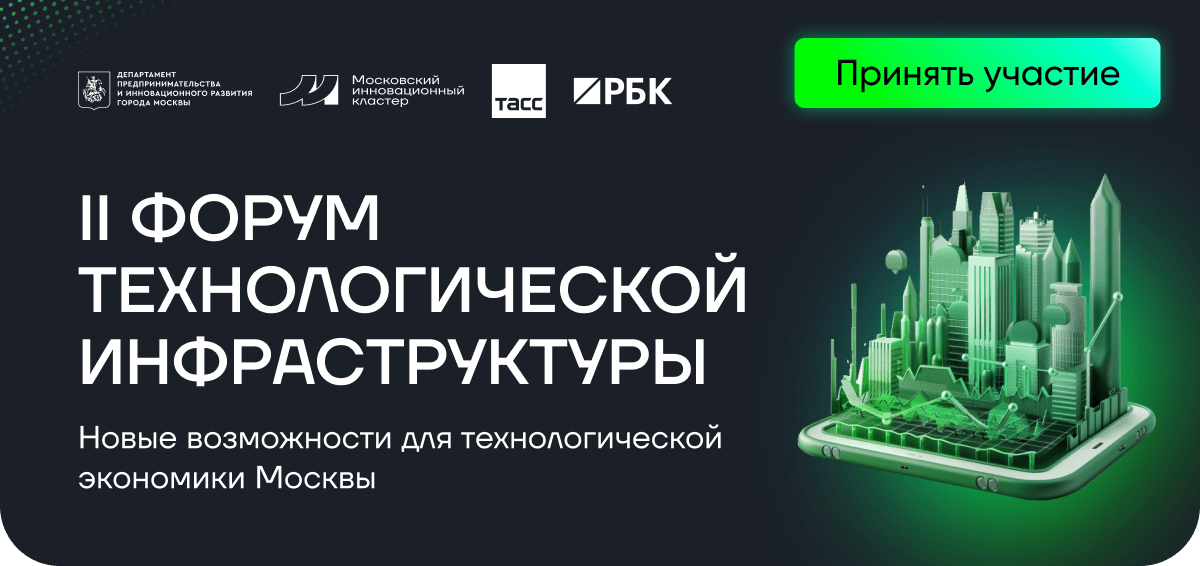
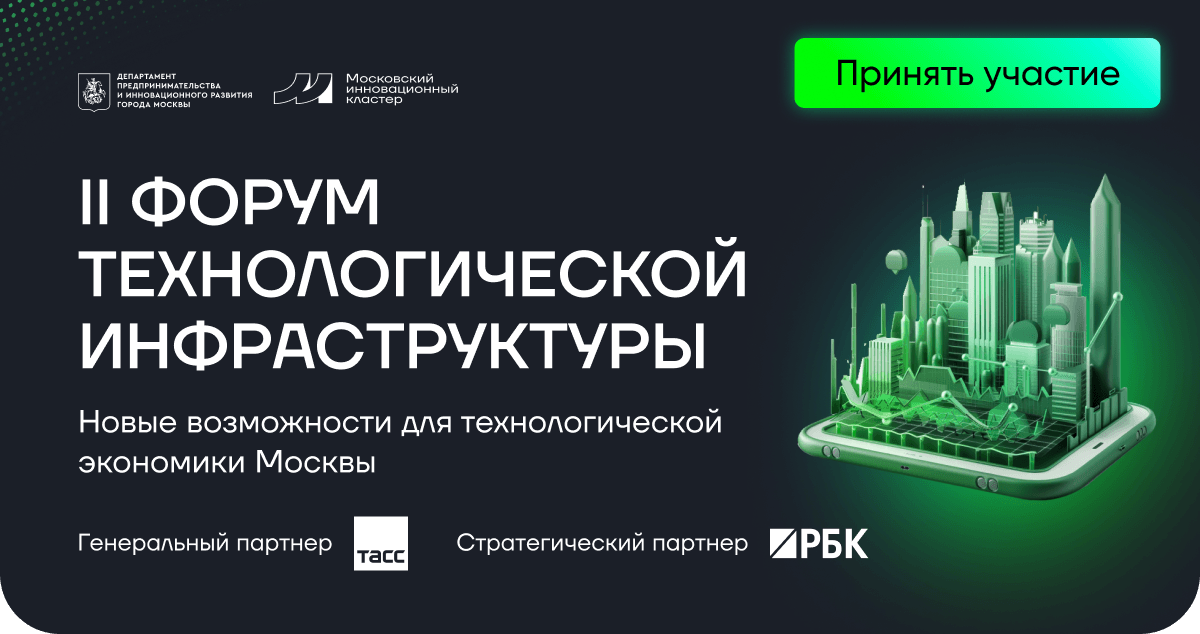
change mik-323

diff --git a/mik-323/II Форум технологической инфраструктуры.html b/mik-323/II Форум технологической инфраструктуры.html
@@ -103,7 +103,7 @@
                                         <tr>
                                             <td style="width:600px;">
                                                 <a href="https://i.moscow/fti?utm_source=marketing&utm_medium=email&utm_campaign=digital&utm_content=fti&utm_term=17032026" target="_blank">
-                                                    <img alt="II Форум технологической инфраструктуры. Новые возможности для технологической экономики Москвы. Нажмите здесь, чтобы принять участие." height="auto" src="https://cp.unisender.com/ru/user_file?resource=images&user_id=5608985&name=mik-323-hero.png" style="border:0;display:block;outline:none;text-decoration:none;height:auto;width:100%;font-size:13px;" width="600" />
+                                                    <img alt="II Форум технологической инфраструктуры. Новые возможности для технологической экономики Москвы. Генеральный партнер: ТАСС. Стратегический партнер: РБК. Нажмите здесь, чтобы принять участие." height="auto" src="https://cp.unisender.com/ru/user_file?resource=images&user_id=5608985&name=mik-323-hero.png" style="border:0;display:block;outline:none;text-decoration:none;height:auto;width:100%;font-size:13px;" width="600" />
                                                 </a>
                                             </td>
                                         </tr>
